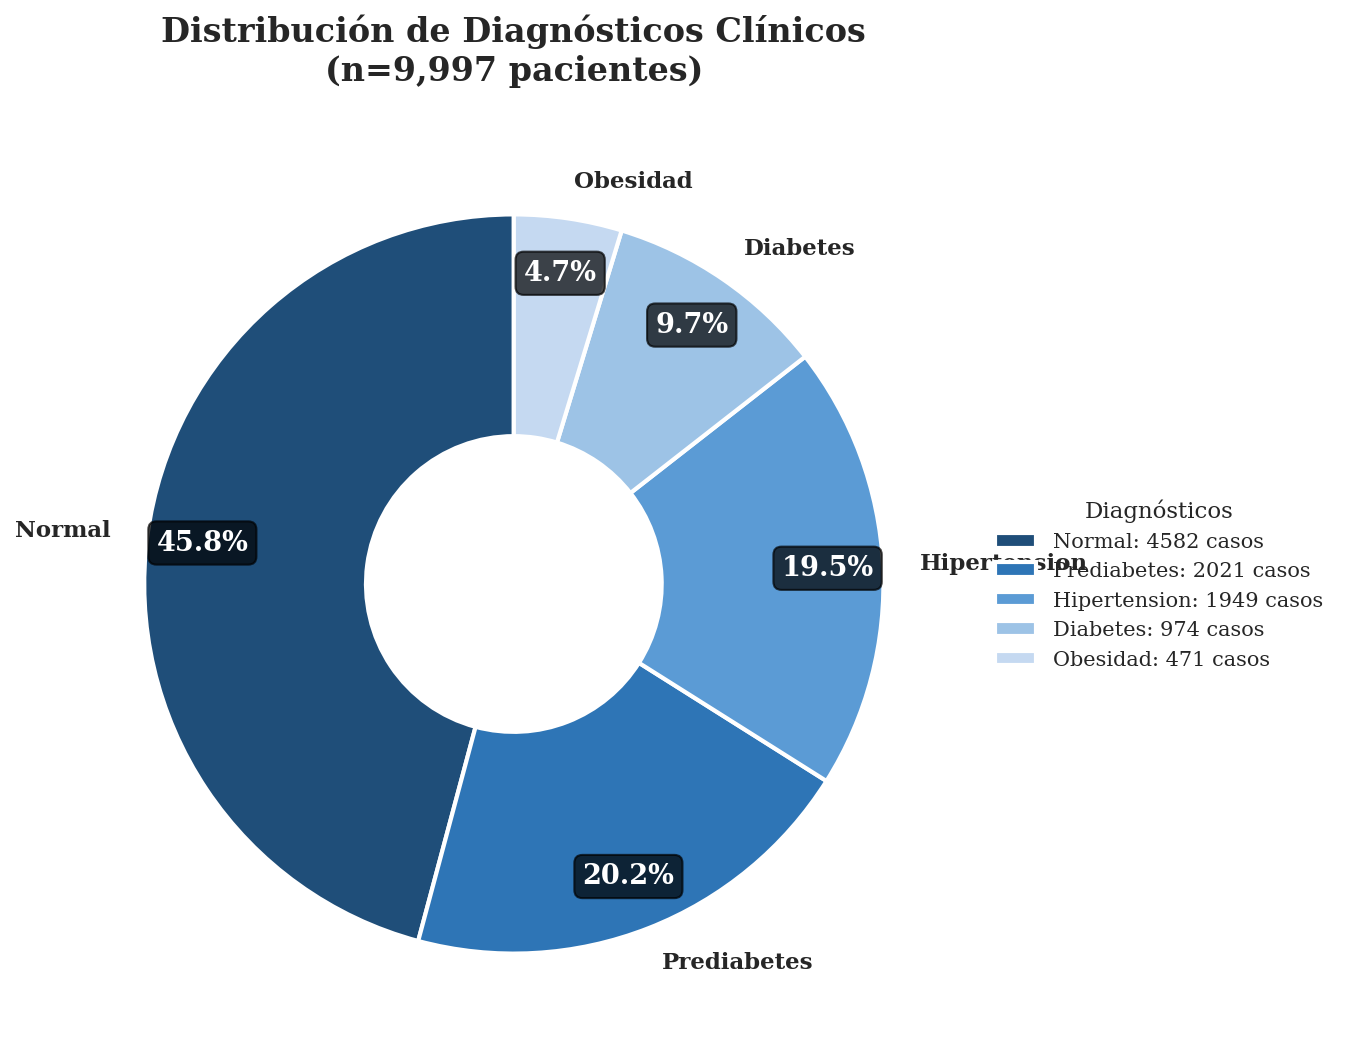
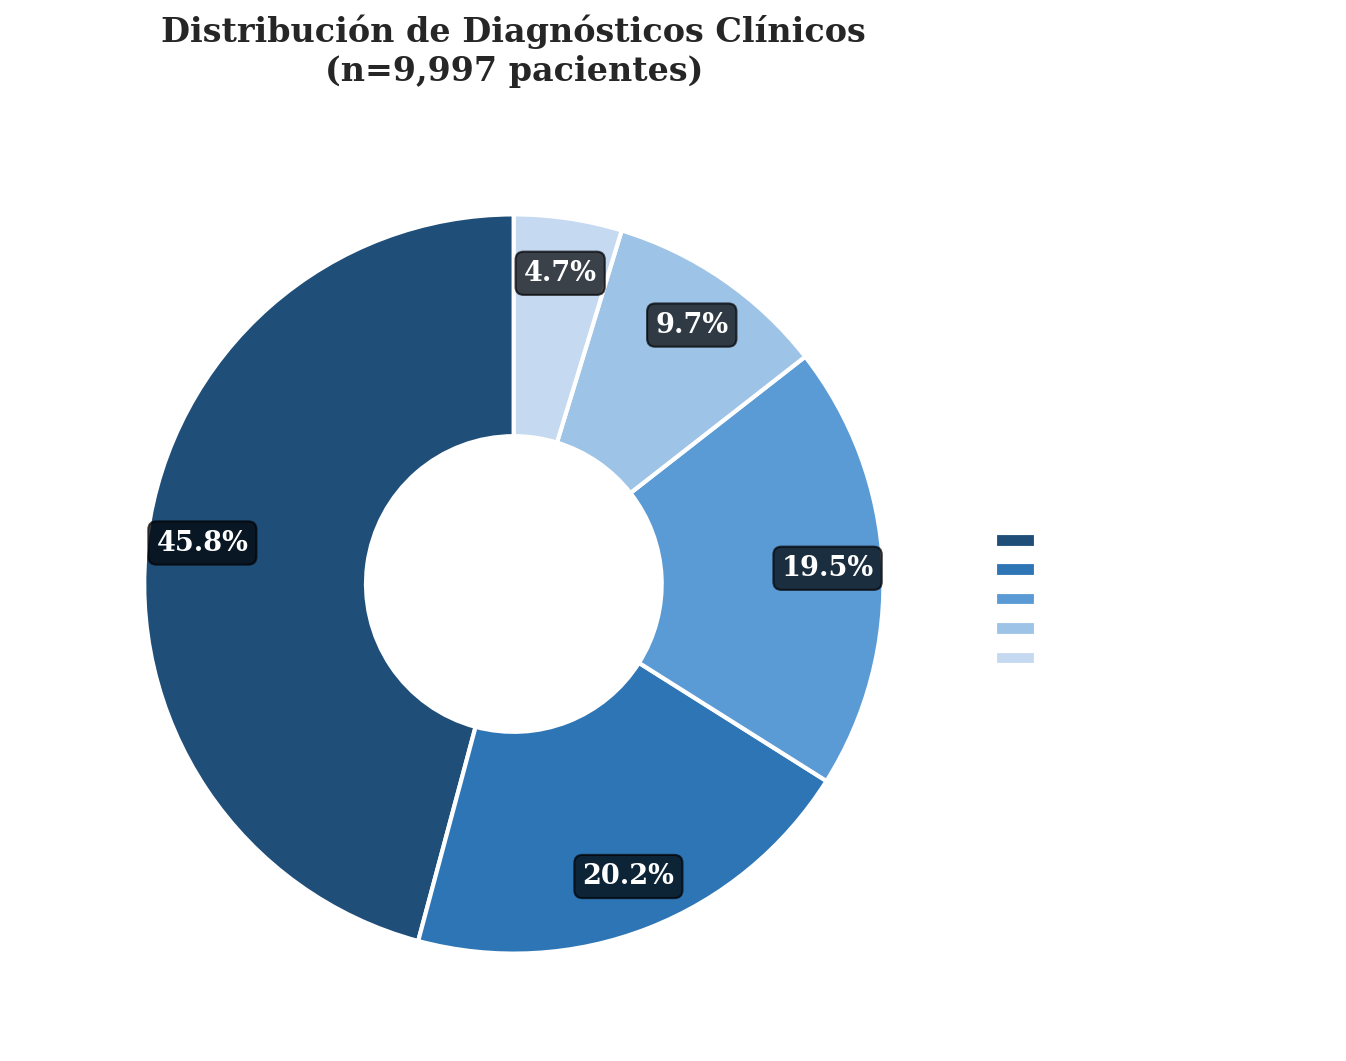
color corregido grafica

diff --git a/static/script.js b/static/script.js
@@ -653,6 +653,7 @@ function createCharts(data) {
                                         fillStyle: style.backgroundColor,
                                         strokeStyle: style.borderColor,
                                         lineWidth: style.borderWidth,
+                                        fontColor: '#ffffff',
                                         hidden: !chart.getDataVisibility(i),
                                         index: i
                                     };

diff --git a/app/routers/analysis.py b/app/routers/analysis.py
@@ -506,14 +506,20 @@ def generate_charts_optimized(data, output_dir, max_points=3000):
     for text in texts:
         text.set_fontsize(11)
         text.set_fontweight('bold')
+        text.set_color('white')
     
     ax.set_title('Distribución de Diagnósticos Clínicos\n(n=' + f'{len(data):,}' + ' pacientes)', 
                 fontweight='bold', pad=20, fontsize=16)
     
     # Agregar leyenda con conteos
     legend_labels = [f'{diag}: {count} casos' for diag, count in diagnosis_counts.items()]
-    ax.legend(wedges, legend_labels, title="Diagnósticos", loc="center left", 
+    legend = ax.legend(wedges, legend_labels, title="Diagnósticos", loc="center left",
              bbox_to_anchor=(1, 0, 0.5, 1), fontsize=10)
+
+    # Cambiar color de texto de la leyenda a blanco
+    for text in legend.get_texts():
+        text.set_color('white')
+    legend.get_title().set_color('white')
     
     chart1_path = os.path.join(output_dir, 'distribucion_diagnosticos.png')
     plt.savefig(chart1_path, dpi=150, bbox_inches='tight', facecolor='white')
